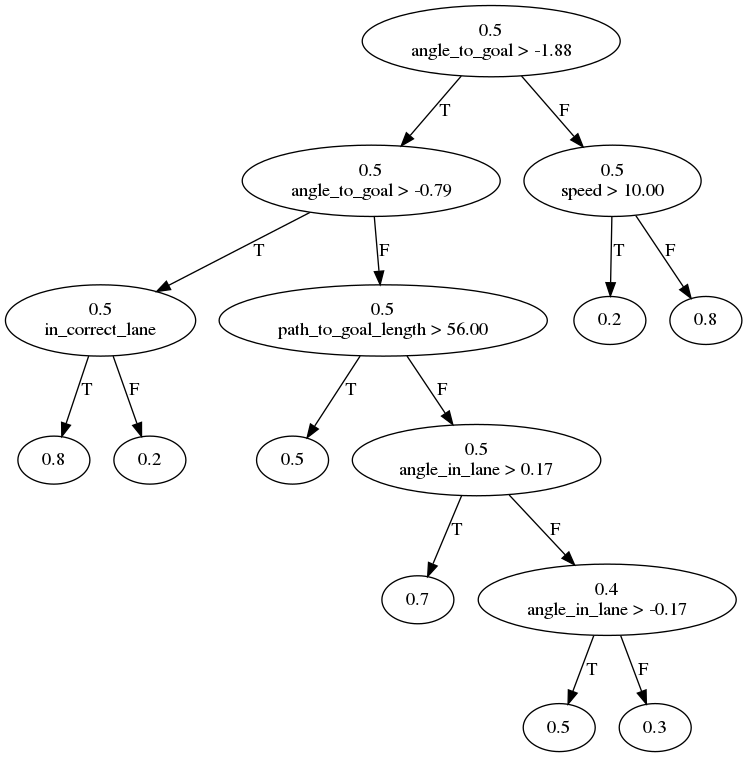
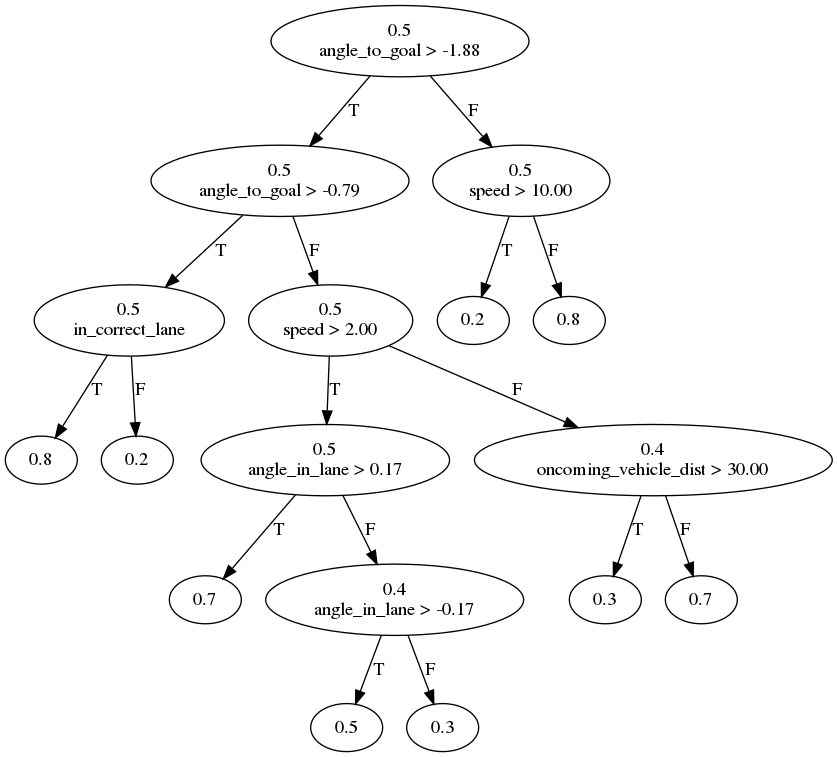
add new features to goal trees

diff --git a/av_goal_recognition/handcrafted_trees.py b/av_goal_recognition/handcrafted_trees.py
@@ -1,32 +1,28 @@
 import numpy as np
 from av_goal_recognition.decision_tree import Node, ThresholdDecision, BinaryDecision
 
-
-"""
-al features
-path_to_goal_length
-in_correct_lane
-speed
-acceleration
-angle_in_lane
-angle_to_goal
-"""
-
 scenario_trees = {'heckstrasse':
                  {0: Node(0.5, ThresholdDecision(3 / 8 * np.pi, 'angle_to_goal',
-                          Node(0.5, ThresholdDecision(34.5, 'path_to_goal_length',
-                               Node(0.5),
+                          Node(0.5, ThresholdDecision(2, 'speed',
                                Node(0.5, ThresholdDecision(np.pi/18, 'angle_in_lane',
                                     Node(0.7),
                                     Node(0.4, ThresholdDecision(-np.pi/18, 'angle_in_lane',
                                          Node(0.5),
                                          Node(0.3)
                                          ))
+                                    )),
+                               Node(0.4, ThresholdDecision(30, 'oncoming_vehicle_dist',
+                                    Node(0.3),
+                                    Node(0.7)
                                     ))
                                )),
                           Node(0.5, ThresholdDecision(10, 'speed',
                                Node(0.8),
-                               Node(0.2)
+                               Node(0.3, ThresholdDecision(10, 'vehicle_in_front_speed',
+                                    Node(0.8),
+                                    Node(0.5, ThresholdDecision(30, 'vehicle_in_front_dist',
+                                         Node(0.8), Node(0.2)))
+                                    ))
                                ))
                           )),
 
@@ -36,14 +32,17 @@ scenario_trees = {'heckstrasse':
                                     Node(0.8),
                                     Node(0.2)
                                     )),
-                               Node(0.5, ThresholdDecision(56, 'path_to_goal_length',
-                                    Node(0.5),
-                                    Node(0.5, ThresholdDecision(np.pi / 18, 'angle_in_lane',
+                               Node(0.5, ThresholdDecision(2, 'speed',
+                                    Node(0.5, ThresholdDecision(np.pi/18, 'angle_in_lane',
                                          Node(0.7),
-                                         Node(0.4, ThresholdDecision(-np.pi / 18, 'angle_in_lane',
+                                         Node(0.4, ThresholdDecision(-np.pi/18, 'angle_in_lane',
                                               Node(0.5),
                                               Node(0.3)
                                               ))
+                                         )),
+                                    Node(0.4, ThresholdDecision(30, 'oncoming_vehicle_dist',
+                                         Node(0.3),
+                                         Node(0.7)
                                          ))
                                     ))
                                )),
@@ -54,16 +53,19 @@ scenario_trees = {'heckstrasse':
                           )),
 
                   2: Node(0.5, ThresholdDecision(0, 'angle_to_goal',
-                          Node(0.5, ThresholdDecision(30, 'path_to_goal_length',
-                               Node(0.5),
-                               Node(0.5, ThresholdDecision(10, 'speed',
-                                    Node(0.2),
-                                    Node(0.8)
+                          Node(0.5, ThresholdDecision(10, 'speed',
+                               Node(0.2),
+                               Node(0.8, ThresholdDecision(10, 'vehicle_in_front_speed',
+                                    Node(0.8),
+                                    Node(0.5, ThresholdDecision(30, 'vehicle_in_front_dist',
+                                         Node(0.8),
+                                         Node(0.5)
+                                         ))
                                     ))
                                )),
                           Node(0.5, BinaryDecision('in_correct_lane',
-                                           Node(0.9),
-                                           Node(0.1)
+                               Node(0.9),
+                               Node(0.1)
                                ))
                           ))
                  }

diff --git a/av_goal_recognition/plot_trees.py b/av_goal_recognition/plot_trees.py
@@ -1,6 +1,7 @@
 import pydot
 
 from av_goal_recognition.handcrafted_trees import scenario_trees
+from av_goal_recognition.base import get_img_dir
 
 
 def build_pydot_tree(graph, root, idx='R'):
@@ -19,4 +20,4 @@ scenario_name = 'heckstrasse'
 for goal_idx, root in scenario_trees[scenario_name].items():
     graph = pydot.Dot(graph_type='digraph')
     build_pydot_tree(graph, root)
-    graph.write_png('handcrafted_tree_{}_G{}.png'.format(scenario_name, goal_idx))
+    graph.write_png(get_img_dir() + 'handcrafted_tree_{}_G{}.png'.format(scenario_name, goal_idx))
